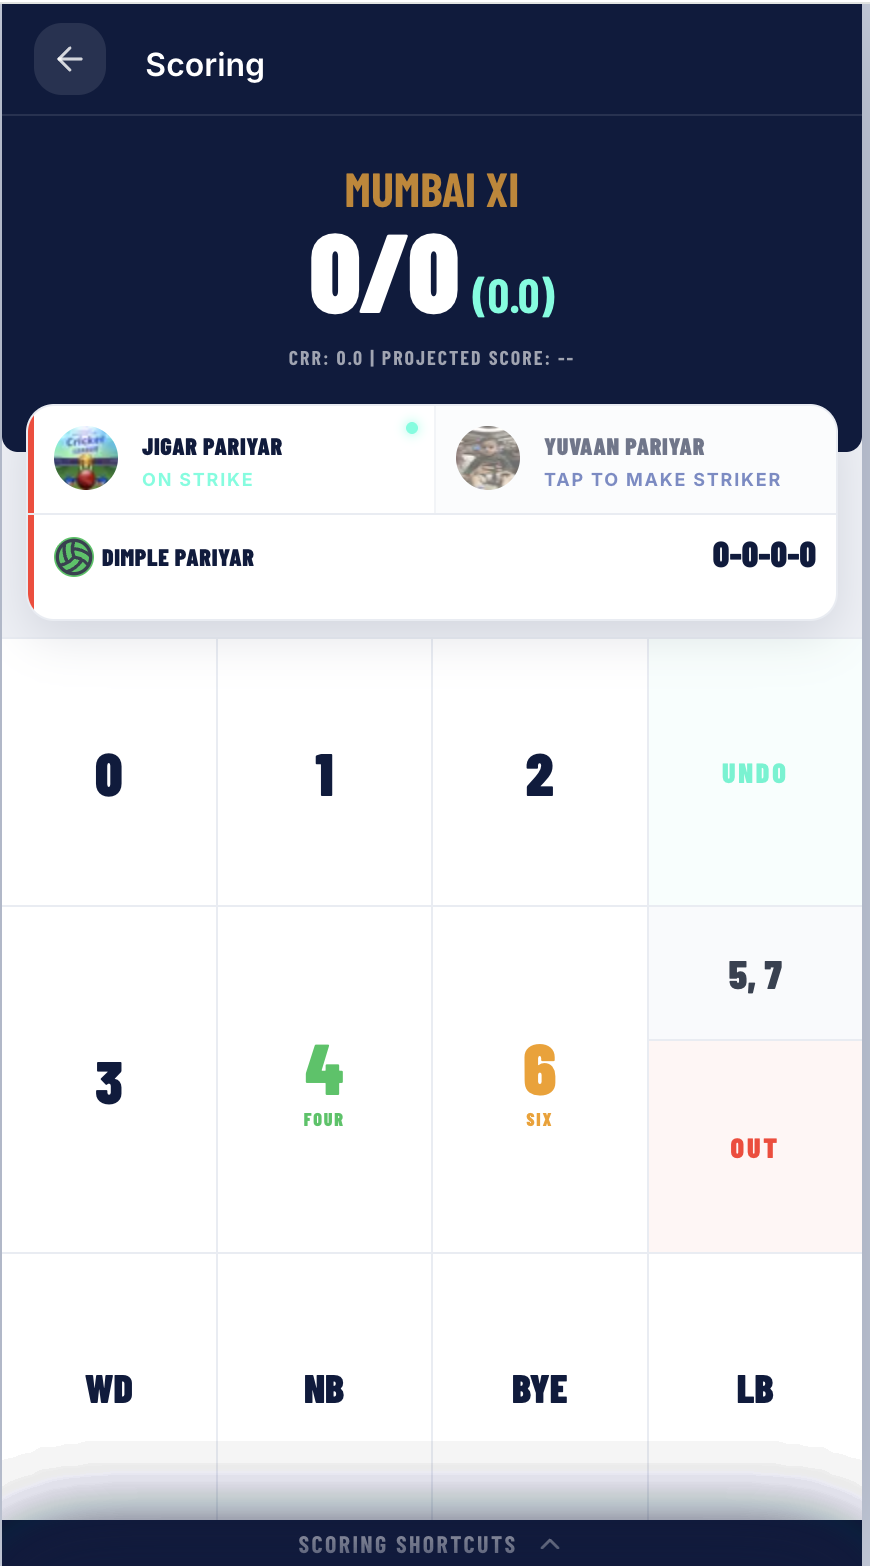
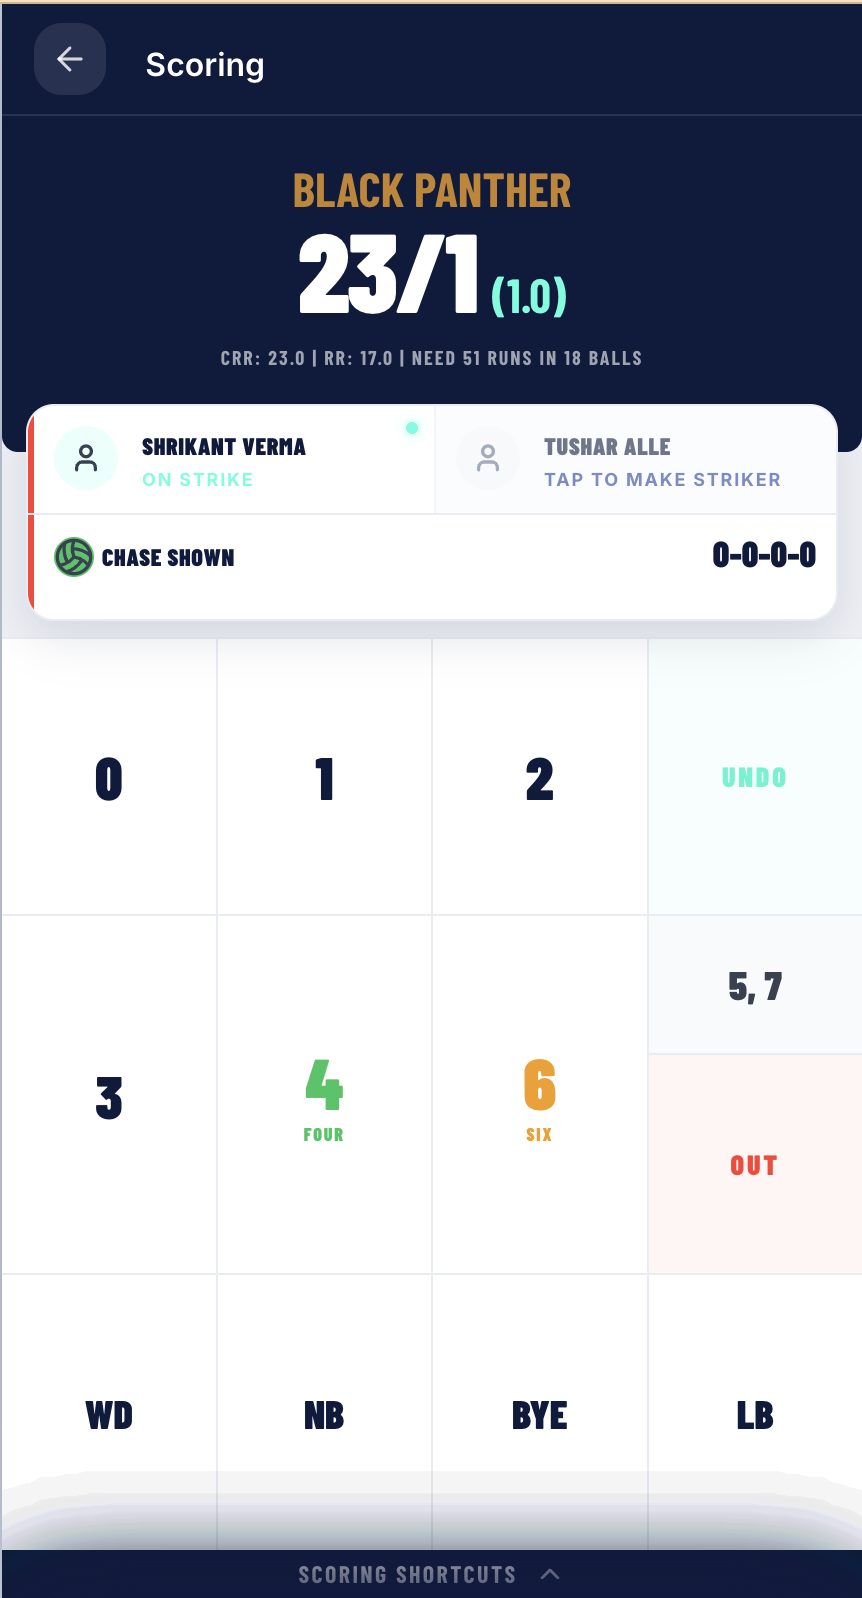
landing page image update

diff --git a/src/app/(marketing)/page.tsx b/src/app/(marketing)/page.tsx
@@ -106,7 +106,7 @@ const tournamentScreens = [
     badge: "Digital Scorecard",
     label: "Scoreboard Summary",
     subtitle: "Ball-by-ball commentary, partnership stats & full scorecards.",
-    image: "/yuvacrixlandingpage/Screenshot 2026-08-08 at 9.21.03 AM.png",
+    image: "/yuvacrixlandingpage/scorecard.png",
     aspect: "aspect-[870/1566]",
     className: "lg:translate-y-6 lg:rotate-[2.5deg]",
   },
@@ -357,7 +357,7 @@ function HeroScreens() {
         </div>
       </motion.div>
 
-      {/* Center main phone: Live Scoring Keypad */}
+      {/* Center main phone: MVP & Match Highlights */}
       <motion.div
         initial={{ opacity: 0, y: 90, scale: 0.92 }}
         animate={{ opacity: 1, y: 0, scale: 1 }}
@@ -373,8 +373,8 @@ function HeroScreens() {
 
         <div className="relative w-full aspect-[870/1566] overflow-hidden rounded-[30px] bg-[#10182F]">
           <Image
-            src="/yuvacrixlandingpage/scoring.png"
-            alt="YuvaCrix live scoring screen"
+            src="/yuvacrixlandingpage/mvp.png"
+            alt="YuvaCrix MVP awards and match heroes"
             fill
             priority
             sizes="310px"
@@ -383,7 +383,7 @@ function HeroScreens() {
         </div>
       </motion.div>
 
-      {/* Right phone: Start Innings */}
+      {/* Right phone: Ball-by-Ball Commentary */}
       <motion.div
         initial={{ opacity: 0, y: 70, rotate: 8 }}
         animate={{ opacity: 1, y: 0, rotate: 5 }}
@@ -394,10 +394,10 @@ function HeroScreens() {
         }}
         className="absolute right-[2%] top-[18%] z-10 hidden w-[32%] max-w-[210px] overflow-hidden rounded-[26px] border-[3px] border-white/15 bg-[#101A37] p-1 shadow-[0_30px_70px_rgba(0,0,0,0.55)] sm:block"
       >
-        <div className="relative w-full aspect-[862/1598] overflow-hidden rounded-[20px] bg-[#0A0F24]">
+        <div className="relative w-full aspect-[870/1566] overflow-hidden rounded-[20px] bg-[#0A0F24]">
           <Image
-            src="/yuvacrixlandingpage/startininings.png"
-            alt="YuvaCrix start innings"
+            src="/yuvacrixlandingpage/commentary.png"
+            alt="YuvaCrix ball-by-ball commentary"
             fill
             sizes="210px"
             className="object-contain object-top"
